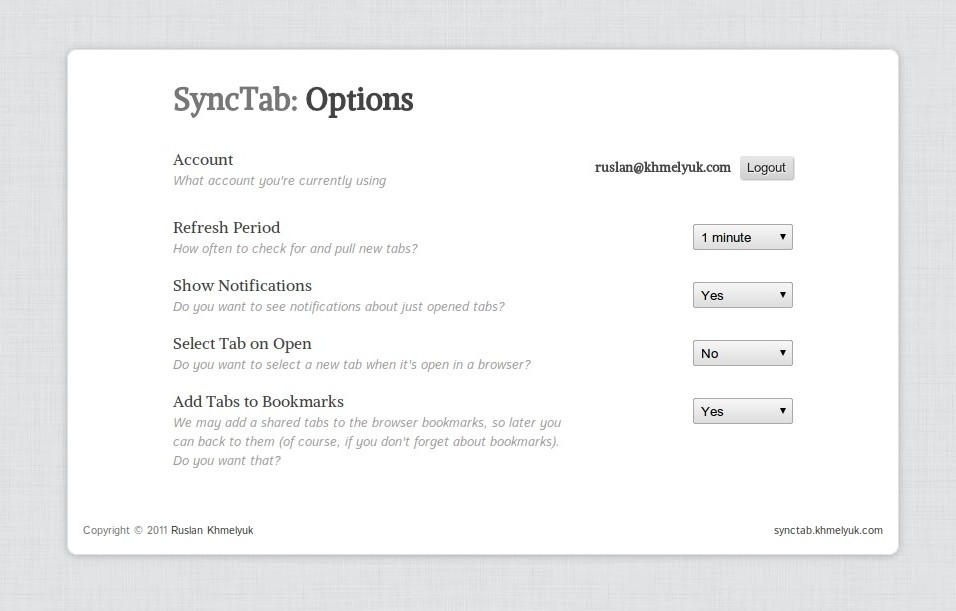
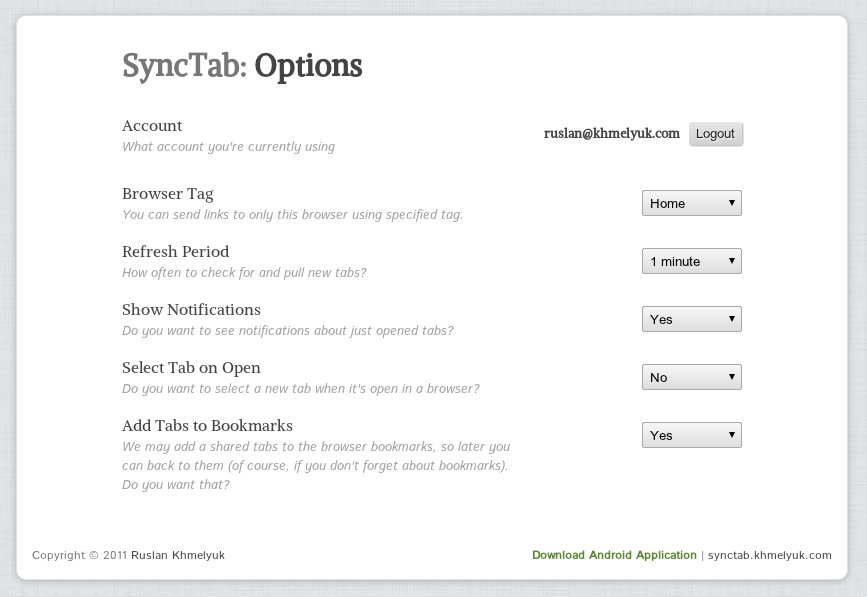
Update website and documentation.

Changed region(s): [[0.0, 0.0, 0.9965, 0.995], [0.7163, 0.3317, 0.872, 0.7538], [0.6228, 0.1809, 0.872, 0.3015]]

diff --git a/templates/desktop/how_to_use_android_app.html b/templates/desktop/how_to_use_android_app.html
@@ -7,20 +7,29 @@
 {% block content %}
     <h1>How To Use Android Application</h1>
 
-    <h2 id="share-link">Share a Link</h2>
+    <h2 id="send-link">Send a Link</h2>
     <div class="paragraph">
-        <p>Lets try to share a link from Android browser. Start a browser application on your phone and open some page in it,
+        <p>Lets try to send a link from Android browser. Start a browser application on your phone and open some page in it,
             e.g. <a href="http://google.com">http://google.com</a>. Click on Menu and search for "Share page" option.
             After you select it, you will see a "Share via" dialog with a list of applications you want to share with.
             Find and select a SyncTab option here. </p>
 
         <div class="docImage">
             <img src="{% get_static_prefix %}image/docs/share-via.png" alt="Share Via" height="200"/>
-            <div class="label">Share via SyncTab</div>
+            <div class="label">Send link via SyncTab</div>
         </div>
 
         <p>After you select a SyncTab option, you will see a new screen from SyncTab application.
-            Here you will see a message that a tab is syncing. Wait for a few seconds.
+            Here you will see a dialog box called "Send To..." with a few tags.
+            You can send a link with specified tag only. Such you limit what devices and browsers
+            can receive and open link. For example, you can send a link to Home browser, or to Android tablet.</p>
+
+        <div class="docImage">
+            <img src="{% get_static_prefix %}image/docs/send-to.png" alt="Shared Link" height="240"/>
+            <div class="label">Send To</div>
+        </div>
+
+        <p>Then you will see a message that a tab is syncing. Wait for a few seconds.
             If you have an Internet connection up, you will see a next message:</p>
 
         <div class="docImage">
@@ -31,7 +40,7 @@
         <p>Now the link is shared. And as soon as you'll have a connection to the internet, it will be available in your desktop browser.</p>
     </div>
 
-    <h2 id="view-shared-links">View List of Shared Links</h2>
+    <h2 id="view-sent-links">View List of Sent Links</h2>
     <div class="paragraph">
         <p>Start SyncTab application. Login if need. You should be on Home page now. Home page contains a list of already shared links.
             When you connected to the internet, you may load the entire list of shared links.</p>
@@ -51,20 +60,15 @@
         </div>
     </div>
 
-    <h3 id="reshare-link">Re-Share a Link</h3>
+    <h3 id="resend-link">Re-send a Link</h3>
     <div class="paragraph">
-        You may re-share a link again. Re-share used to open the link in your desktop browser again.
-        Make a long click on the link you want to re-share. Application will open a context menu like this:
+        You may re-send a link again. Re-send used to send the link with specified tag again, so it can be opened
+        again in your browser. Make a long click on the link you want to re-send, and press the Re-send option.
     </div>
 
     <h3 id="remove-link">Remove a Link</h3>
     <div class="paragraph">
         You may remove a link. This link will also be removed from history. Just select a <em>Remove</em> option in context menu for shared link.
-    </div>
-
-    <h3 id="share-via">Send a Link</h3>
-    <div class="paragraph">
-        You may send link to another application, like Browser, Mail and so on. Just select a <em>Send To</em> option in context menu for shared link.
     </div>
 
     <h3 id="copy-link">Copy Link into Clipboard</h3>

diff --git a/templates/desktop/getting_started.html b/templates/desktop/getting_started.html
@@ -8,7 +8,7 @@
     <h1>Getting Started</h1>
 
     <div class="paragraph">
-        This page is to help you to start using SyncTab to share a links from Android phone to your desktop browser.
+        This page is to help you to start using SyncTab to send a links from Android phone to Chrome browser.
         
         First you will need to <a href="#install-android">install Android application</a> and then <a href="#install-chrome">install Chrome extension</a>.
         You will need to register an account if you don't have yet a SyncTab account.
@@ -67,9 +67,9 @@
         <p>You can read more about <a href="{% url how_to_use_chrome_ext %}">how to use Chrome extension</a>.</p>
     </div>
 
-    <h2>Share a Link</h2>
+    <h2>Send a Link</h2>
     <div class="paragraph">
-        <p>Here I describe how to share a link from Android phone to your desktop browser, like Chrome.
+        <p>Here I describe how to send a link from Android phone to your desktop browser, like Chrome.
         Android platform allows you to send a content to different application. This content can be a link, a text or image.
         SyncTab supports only processing a links. This means, you can use numerous Android applications (like Browser, Google Reader and so on)
         to send a link to SyncTab application. SyncTab application will do it best to open this link in your desktop browser.</p>
@@ -81,7 +81,7 @@
             <img src="{% get_static_prefix %}image/docs/share.png" alt="Send To Icon" class="noShadow"/>
         </div>
 
-        <p>Lets try to share a link from Android browser. Start a browser application on your phone and open some page with it,
+        <p>Lets try to send a link from Android browser. Start a browser application on your phone and open some page with it,
             e.g. <a href="http://google.com">http://google.com</a>. Click on Menu and search for "Share page" option.
             After you select it, you will see a "Share via" dialog with a list of applications you want to share with.
             Find and select a SyncTab option here. </p>
@@ -92,7 +92,10 @@
         </div>
 
         <p>After you select a SyncTab option, you will see a new screen from SyncTab application.
-            Here you will see a message that a tab is syncing. Wait for a few seconds.
+            There you will see a dialog box called "Send To..." with a few tags.
+            You can send a link with specified tag only. Such you limit what devices and browsers
+            can receive and open link. For example, you can send a link to Home browser, or to Android tablet.
+            After you will see a message that a tab is syncing. Wait for a few seconds.
             If you have an Internet connection up, you will see a next message:</p>
 
         <div class="docImage">
@@ -100,7 +103,7 @@
             <div class="label">Shared Link</div>
         </div>
 
-        <p>And now, less than in a minute, your desktop browser will open a new tab with the shared link!</p>
+        <p>And now, less than in a minute, your desktop browser will open a new tab for the received link!</p>
     </div>
 
 {% endblock %}

diff --git a/templates/mobile/how_to_use_android_app.html b/templates/mobile/how_to_use_android_app.html
@@ -12,8 +12,8 @@
 
     <div data-role="collapsible-set">
         <div data-role="collapsible">
-            <h2 id="share-link">Share a Link</h2>
-            <p>Lets try to share a link from Android browser. Start a browser application on your phone and open some page in it,
+            <h2 id="share-link">Send a Link</h2>
+            <p>Lets try to send a link from Android browser. Start a browser application on your phone and open some page in it,
                 e.g. <a href="http://google.com">http://google.com</a>. Click on Menu and search for "Share page" option.
                 After you select it, you will see a "Share via" dialog with a list of applications you want to share with.
                 Find and select a SyncTab option here. </p>
@@ -25,7 +25,17 @@
             </div>
 
             <p>After you select a SyncTab option, you will see a new screen from SyncTab application.
-                Here you will see a message that a tab is syncing. Wait for a few seconds.
+                Here you will see a dialog box called "Send To..." with a few tags.
+                You can send a link with specified tag only. Such you limit what devices and browsers
+                can receive and open link. For example, you can send a link to Home browser, or to Android tablet.</p>
+
+            <div class="docImage">
+                <img src="{% get_static_prefix %}image/docs/send-to.png" alt="Shared Link" height="240"/>
+                <div class="label">Send To</div>
+            </div>
+
+            <p>
+                Then you will see a message that a tab is syncing. Wait for a few seconds.
                 If you have an Internet connection up, you will see a next message:</p>
 
             <div class="docImage">
@@ -34,7 +44,7 @@
                 <div class="label">Shared Link</div>
             </div>
 
-            <p>Now the link is shared. And as soon as you'll have a connection to the internet, it will be available in your desktop browser.</p>
+            <p>Now the link is sent. And as soon as you'll have a connection to the internet, it will be available in your desktop browser.</p>
         </div>
 
         <div data-role="collapsible">
@@ -60,9 +70,9 @@
         </div>
 
         <div data-role="collapsible">
-            <h3 id="reshare-link">Re-Share a Link</h3>
-            You may re-share a link again. Re-share used to open the link in your desktop browser again.
-            Make a long click on the link you want to re-share. Application will open a context menu like this:
+            <h3 id="reshare-link">Re-Send a Link</h3>
+            You may re-send a link again. Re-send used to send the link with specified tag again, so it can be opened
+            again in your browser. Make a long click on the link you want to re-send, and press the Re-send option.
         </div>
 
         <div data-role="collapsible">

diff --git a/templates/desktop/how_to_use_chrome_ext.html b/templates/desktop/how_to_use_chrome_ext.html
@@ -18,7 +18,7 @@
         <p>And click on an <em>Options</em> link. You'll see a page like:</p>
 
         <div class="docImage">
-            <img src="{% get_static_prefix %}image/docs/synctab-chrome-options.jpg" alt="Chrome Options" height="240"/><br/>
+            <img src="{% get_static_prefix %}image/docs/synctab-chrome-options.jpg" alt="Chrome Options" height="380"/><br/>
             <div class="label">Options Page</div>
         </div>
     </div>
@@ -26,6 +26,19 @@
     <h3 id="current-account">View Currently Used Account</h3>
     <div class="paragraph">
         Open SyncTab Extension Options page. If you're registered now, you'll will see an <em>Account</em> item with a currently registered user email.
+    </div>
+
+    <h3 id="current-tag">Change Browser Tag</h3>
+    <div class="paragraph">
+        Tag used to filter the links to open in the browser. For example, you can select current browser tag to be Home, so any links
+        send with tag Hope will be opened in this browser. Such, you may have different Chrome browsers and have different tags for them.
+        For example, one browser can be installed in your work computer and another in your home computer.
+        Having them different current tags allows you to send links between them. Funny page can be send to the Home browser, while
+        some professional article can be send to the Work browser. And you don't need to have them both online to send links.
+        You may send a link from Home computer, then turn it off, come to work, turn on your work computer, open browser and in a minute
+        browser will receive links.
+
+        <p><strong>Default Chrome browser tag is Chrome.</strong> But you can change it to be Home or Work.</p>
     </div>
 
     <h3 id="logout">Logout</h3>
@@ -44,5 +57,18 @@
         Open SyncTab Extension Options page. Select Yes or No for <em>Show Notifications</em> option.
     </div>
 
+    <h2 id="send-link">Send a Link</h2>
+    <div class="paragraph">
+        You can send a link from Chrome browser to another Chrome browser or Android device.
+        There is an SyncTab icon in the toolbar on the right side of the address bar.
+        <div class="docImage">
+            <img src="{% get_static_prefix %}image/docs/synctab-chrome-toolbar-icon.png" alt="SyncTab Icon"/><br/>
+            <div class="label">SyncTab toolbar icon</div>
+        </div>
+
+        Click on this icon to see the list of tags. Click on any tag to share a current tab page with specified tag.
+        <br/>If you right-click on any link on the page, you'll see a SyncTab item in the content menu.
+        Use it to share a link with specified tag without even opening it!
+    </div>
 
 {% endblock %}

diff --git a/templates/desktop/index.html b/templates/desktop/index.html
@@ -2,25 +2,27 @@
 
 {% load static %}
 
-{% block title %}SyncTab: send links from phone to your browser{% endblock %}
+{% block title %}SyncTab: send links from phone to browser{% endblock %}
 
 {% block content %}
     <div class="download">
         <div class="downloadButton">
             <a href="{% url download %}">Download</a>
         </div>
-        current version is 0.6
+        current version is 0.7
     </div>
 
-    <p class="emphasize">SyncTab is a simple way to send your links from Android to your favourite desktop browser</p>
+    <p class="emphasize">SyncTab is a simple way to send your links between Android and Chrome</p>
 
     <div class="clear"></div>
 
     <h2>Seriously What Is a SyncTab?</h2>
     <div class="paragraph">
-        <strong>SyncTab</strong> is a free Android application and browser plugin.
-        With SyncTab Android application you can send your interesting website directly to your web browser.
-        In a minute it will be opened in your browser as a new tab and you can continue work with it!
+        <strong>SyncTab</strong> is a free Android application and Chrome browser plugin.
+        With SyncTab Android application you can send your interesting website directly to Chrome.
+        In a minute the link will be opened in Chrome and you can continue work with it!
+        You also can send links from Chrome to Android device, from one Chrome browser to another,
+        from one Android device and another.
     </div>
     <div class="paragraph">
         <div class="sideImage">

diff --git a/templates/mobile/how_to_use_chrome_ext.html b/templates/mobile/how_to_use_chrome_ext.html
@@ -36,6 +36,18 @@
         </div>
 
         <div data-role="collapsible">
+            <h3 id="current-tag">Change Browser Tag</h3>
+            Tag used to filter the links to open in the browser. For example, you can select current browser tag to be Home, so any links
+            send with tag Hope will be opened in this browser. Such, you may have different Chrome browsers and have different tags for them.
+            For example, one browser can be installed in your work computer and another in your home computer.
+            Having them different current tags allows you to send links between them. Funny page can be send to the Home browser, while
+            some professional article can be send to the Work browser. And you don't need to have them both online to send links.
+            You may send a link from Home computer, then turn it off, come to work, turn on your work computer, open browser and in a minute
+            browser will receive links.
+            <p><strong>Default Chrome browser tag is Chrome.</strong> But you can change it to be Home or Work.</p>
+        </div>
+
+        <div data-role="collapsible">
             <h3 id="logout">Logout</h3>
             Open SyncTab Extension Options page. If you're registered now, you'll will see
             an <em>Account</em> item with a <em>Logout</em> button. Click on <em>Logout</em> button.

diff --git a/templates/desktop/help.html b/templates/desktop/help.html
@@ -19,11 +19,11 @@
     <h2>How To...</h2>
     <div class="paragraph" style="min-height: 200px;">
         <ul class="horizontal">
-            <li><a href="{% url how_to_use_android_app %}#share-link">Share a Link</a></li>
-            <li><a href="{% url how_to_use_android_app %}#view-shared-links">View a List of Shared Links</a></li>
-            <li><a href="{% url how_to_use_android_app %}#reshare-link">Reshare a Link</a></li>
+            <li><a href="{% url how_to_use_android_app %}#send-link">Send a Link from Android</a></li>
+            <li><a href="{% url how_to_use_chrome_ext %}#send-link">Send a Link from Chrome</a></li>
+            <li><a href="{% url how_to_use_android_app %}#view-sent-links">View a List of Sent Links</a></li>
+            <li><a href="{% url how_to_use_android_app %}#resend-link">Re-send a Link</a></li>
             <li><a href="{% url how_to_use_android_app %}#remove-link">Remove a Link</a></li>
-            <li><a href="{% url how_to_use_android_app %}#share-via">Send a Link</a></li>
             <li><a href="{% url how_to_use_android_app %}#copy-link">Copy Link into Clipboard</a></li>
             <li><a href="{% url how_to_use_chrome_ext %}#notifications">Disable Notifications when Received Link</a></li>
             <li><a href="{% url how_to_use_chrome_ext %}#bookmarks">Add Received Link to Bookmarks</a></li>

diff --git a/templates/mobile/main_layout.html b/templates/mobile/main_layout.html
@@ -4,7 +4,7 @@
   <head>
     <meta http-equiv="Content-Type" content="text/html; charset=utf-8" />
     <title>{% block title %}SyncTab {% endblock %}</title>
-    <meta name="Keywords" content="android, browser, chrome, firefox, synctab, tab, links, bookmarks, synchronize, share, download" />
+    <meta name="Keywords" content="android, browser, chrome, firefox, synctab, tab, links, bookmarks, synchronize, share, send, download" />
     <meta name="Description" content="SyncTab is an Android application that sends the links to your desktop or laptop browser directly." />
     <meta name="Author" content="Ruslan Khmelyuk" />
 
@@ -13,11 +13,11 @@
     <link rel="shortcut icon" href="{% get_static_prefix %}image/favicon.png" type="image/png" />
 
 
-    <link rel="stylesheet" href="http://code.jquery.com/mobile/1.0rc2/jquery.mobile-1.0rc2.min.css" />
+    <link rel="stylesheet" href="http://code.jquery.com/mobile/1.0/jquery.mobile-1.0.min.css" />
     <link type="text/css" rel="stylesheet" href="{% get_static_prefix %}css/m_styles.css"/>
 
     <script src="http://code.jquery.com/jquery-1.6.4.min.js"></script>
-    <script src="http://code.jquery.com/mobile/1.0rc2/jquery.mobile-1.0rc2.min.js"></script>
+    <script src="http://code.jquery.com/mobile/1.0/jquery.mobile-1.0.min.js"></script>
 
     {% block head %}{% endblock %}
 

diff --git a/templates/mobile/index.html b/templates/mobile/index.html
@@ -2,17 +2,19 @@
 
 {% load static %}
 
-{% block title %}SyncTab: send links from phone to your browser{% endblock %}
+{% block title %}SyncTab: send links between Android and Chrome{% endblock %}
 
 {% block content %}
-    <p class="emphasize">SyncTab is a simple way to send your links from Android to your favourite desktop browser</p>
+    <p class="emphasize">SyncTab is a simple way to send your links from Android to Chrome and vice versa.</p>
 
     <div class="clear"></div>
 
     <h3>Seriously What Is a SyncTab?</h3>
     <strong>SyncTab</strong> is a free Android application and browser plugin.
-    With SyncTab Android application you can send your interesting website directly to your web browser.
-    In a minute it will be opened in your browser as a new tab and you can continue work with it!
+    With SyncTab Android application you can send your interesting website directly to Chrome.
+    In a minute the link will be opened in Chrome and you can continue work with it!
+    You also can send links from Chrome to Android device, from one Chrome browser to another,
+    from one Android device and another.
 
     <ul id="facts">
         <li>Absolutely Free</li>

diff --git a/templates/desktop/screenshots.html b/templates/desktop/screenshots.html
@@ -44,6 +44,12 @@
                 src="{% get_static_prefix %}screenshots/synctab-android-share-via-small.png" alt="Share Via"/></a></li>
         <li><a href="{% get_static_prefix %}screenshots/synctab-android-context-menu.png" rel="screenshot" title="Context Menu"><img
                 src="{% get_static_prefix %}screenshots/synctab-android-context-menu-small.png" alt="Context Menu"/></a></li>
+        <li><a href="{% get_static_prefix %}screenshots/synctab-android-about.png" rel="screenshot" title="About"><img
+                src="{% get_static_prefix %}screenshots/synctab-android-about-small.png" alt="About"/></a></li>
+        <li><a href="{% get_static_prefix %}screenshots/synctab-android-options.png" rel="screenshot" title="Settings"><img
+                src="{% get_static_prefix %}screenshots/synctab-android-options-small.png" alt="Settings"/></a></li>
+        <li><a href="{% get_static_prefix %}screenshots/synctab-android-send-to.png" rel="screenshot" title="Send To"><img
+                src="{% get_static_prefix %}screenshots/synctab-android-send-to-small.png" alt="Send To"/></a></li>
     </ul>
 
 

diff --git a/templates/mobile/screenshots.html b/templates/mobile/screenshots.html
@@ -26,6 +26,12 @@
                 src="{% get_static_prefix %}screenshots/synctab-android-share-via-small.png" alt="Share Via"/></a></li>
         <li><a href="{% get_static_prefix %}screenshots/synctab-android-context-menu.png" rel="external" title="Context Menu"><img
                 src="{% get_static_prefix %}screenshots/synctab-android-context-menu-small.png" alt="Context Menu"/></a></li>
+        <li><a href="{% get_static_prefix %}screenshots/synctab-android-about.png" rel="external" title="About"><img
+                src="{% get_static_prefix %}screenshots/synctab-android-about-small.png" alt="About"/></a></li>
+        <li><a href="{% get_static_prefix %}screenshots/synctab-android-options.png" rel="external" title="Settings"><img
+                src="{% get_static_prefix %}screenshots/synctab-android-options-small.png" alt="Settings"/></a></li>
+        <li><a href="{% get_static_prefix %}screenshots/synctab-android-send-to.png" rel="external" title="Send To"><img
+                src="{% get_static_prefix %}screenshots/synctab-android-send-to-small.png" alt="Send To"/></a></li>
     </ul>
 
 

diff --git a/templates/desktop/download.html b/templates/desktop/download.html
@@ -14,8 +14,8 @@
     <div class="paragraph">
         <div>
             <div class="getSyncTabDownloads">
-                <p><strong>Latest Version</strong>: 0.6</p>
-                <p><strong>Release Date</strong>: 17 Nov 2011</p>
+                <p><strong>Latest Version</strong>: 0.7</p>
+                <p><strong>Release Date</strong>: 24 Nov 2011</p>
                 <p><strong>Supported Android Version</strong>: 2.1 - latest</p>
 
                 <p class="downloadOption">
@@ -41,8 +41,8 @@
     <div class="paragraph">
         <div>
             <div class="getSyncTabDownloads">
-                <p><strong>Latest Version</strong>: 1.0.3</p>
-                <p><strong>Release Date</strong>: 9 Nov 2011</p>
+                <p><strong>Latest Version</strong>: 1.1</p>
+                <p><strong>Release Date</strong>: 24 Nov 2011</p>
                 <p><strong>Supported Chrome Version</strong>: 4.0 - latest</p>
 
                 <p class="downloadOption">
